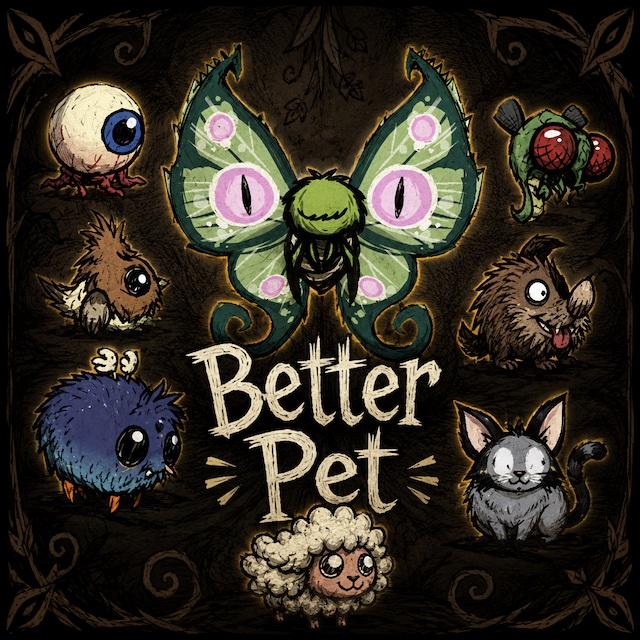
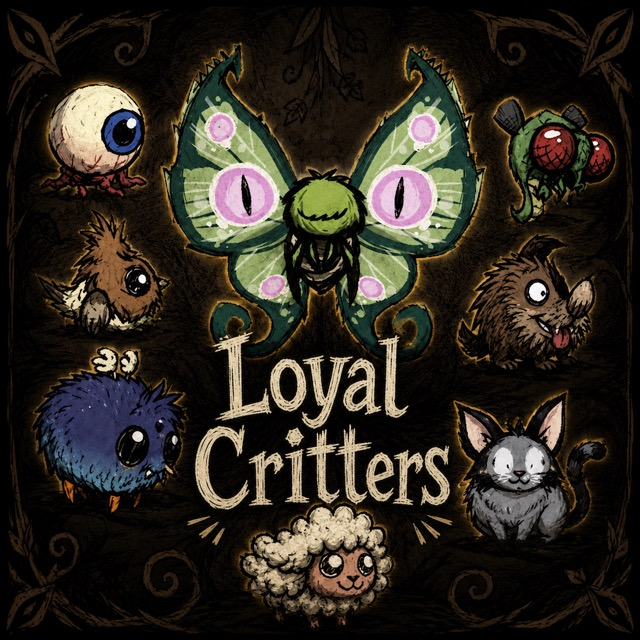
Rename mod to Loyal Critters

diff --git a/CHANGELOG.md b/CHANGELOG.md
@@ -2,12 +2,13 @@
 
 ## 1.7.0 - Repository standardization
 
-- Renamed the Steam-visible mod title to `Better Pet`.
+- Renamed the Steam-visible mod title to `Loyal Critters`.
 - Updated Steam-visible author metadata to `k0za1ak`.
 - Cleaned local duplicate files from the repository package.
 - Added repository documentation and Workshop page copy.
+- Renamed the repository package to `dst-loyal-critters`.
 
-## 1.6.2 - Better Pet Maintenance Update
+## 1.6.2 - Legacy maintenance update
 
 ## Changed
 - Perdling reworked. It no longer drops a random redpouch when fed. Instead, while the Perdling is satiated ("tok"), the owner's hunger drains 20% slower. Owner-only, cleared automatically when the pet gets too hungry or is abandoned — same pattern as the puppy/kitten buffs.
@@ -20,7 +21,7 @@
 
 ---
 
-## 1.6.0 - Better Pet Maintenance Update
+## 1.6.0 - Legacy maintenance update
 
 ## Changed
 - Reworked how every pet benefit is granted. All benefits now go to the pet's **owner only** and are active **only while the pet is satiated ("tok")**. Feed a pet to keep its benefit going. Proximity/radius no longer matters — if the pet is satiated, the owner gets the benefit.
@@ -47,7 +48,7 @@
 
 ---
 
-## 1.4.0 - Better Pet Maintenance Update
+## 1.4.0 - Legacy maintenance update
 
 ## Added
 - Added `Peeper Vision Bonus` mod configuration:
@@ -71,4 +72,4 @@
 
 ## Notes
 - The Peeper camera effect increases maximum zoom-out; the player may still need to scroll the camera outward to use the extra range.
-- The camera effect tries not to fight larger dedicated camera/zoom mods. If another mod already gives a larger max zoom-out, Better Pet will avoid lowering it when Peeper support ends.
+- The camera effect tries not to fight larger dedicated camera/zoom mods. If another mod already gives a larger max zoom-out, Loyal Critters will avoid lowering it when Peeper support ends.

diff --git a/README.md b/README.md
@@ -1,4 +1,4 @@
-# Better Pet
+# Loyal Critters
 
 Friends-only Don't Starve Together mod that modernizes pet benefits so they apply only to each pet's owner while the pet is satiated.
 
@@ -7,13 +7,13 @@ Friends-only Don't Starve Together mod that modernizes pet benefits so they appl
 - Steam Workshop visibility: Friends Only
 - Workshop ID: TBD
 - Workshop URL: TBD
-- Steam title: `Better Pet`
+- Steam title: `Loyal Critters`
 - Local source package: `Better_Pet`
-- Mod name: `Better Pet`
+- Mod name: `Loyal Critters`
 - Author: `k0za1ak`
 - Original author credit: `宵征`
-- Source repository: https://github.com/dbilici/dst-better-pet
-- Repository folder: `dst-better-pet`
+- Source repository: https://github.com/dbilici/dst-loyal-critters
+- Repository folder: `dst-loyal-critters`
 - Version: `1.7.0`
 
 ## Features
@@ -51,4 +51,3 @@ Common macOS location:
 - Keep Workshop metadata in this README.
 - Keep the Steam Workshop page text in `STEAM_WORKSHOP.md`.
 - Tag GitHub releases when publishing Workshop updates.
-

diff --git a/STEAM_WORKSHOP.md b/STEAM_WORKSHOP.md
@@ -2,11 +2,11 @@
 
 ## Title
 
-Better Pet
+Loyal Critters
 
 ## Description
 
-Modernized Better Pet update for Don't Starve Together.
+Modernized loyal critter support for Don't Starve Together.
 
 Every pet benefit now goes to its owner only, and stays active only while the pet is satiated. Feed a pet to keep the benefit going; distance no longer matters.
 
@@ -25,5 +25,4 @@ Author: k0za1ak
 Workshop ID: TBD
 
 Source code:
-https://github.com/dbilici/dst-better-pet
-
+https://github.com/dbilici/dst-loyal-critters
